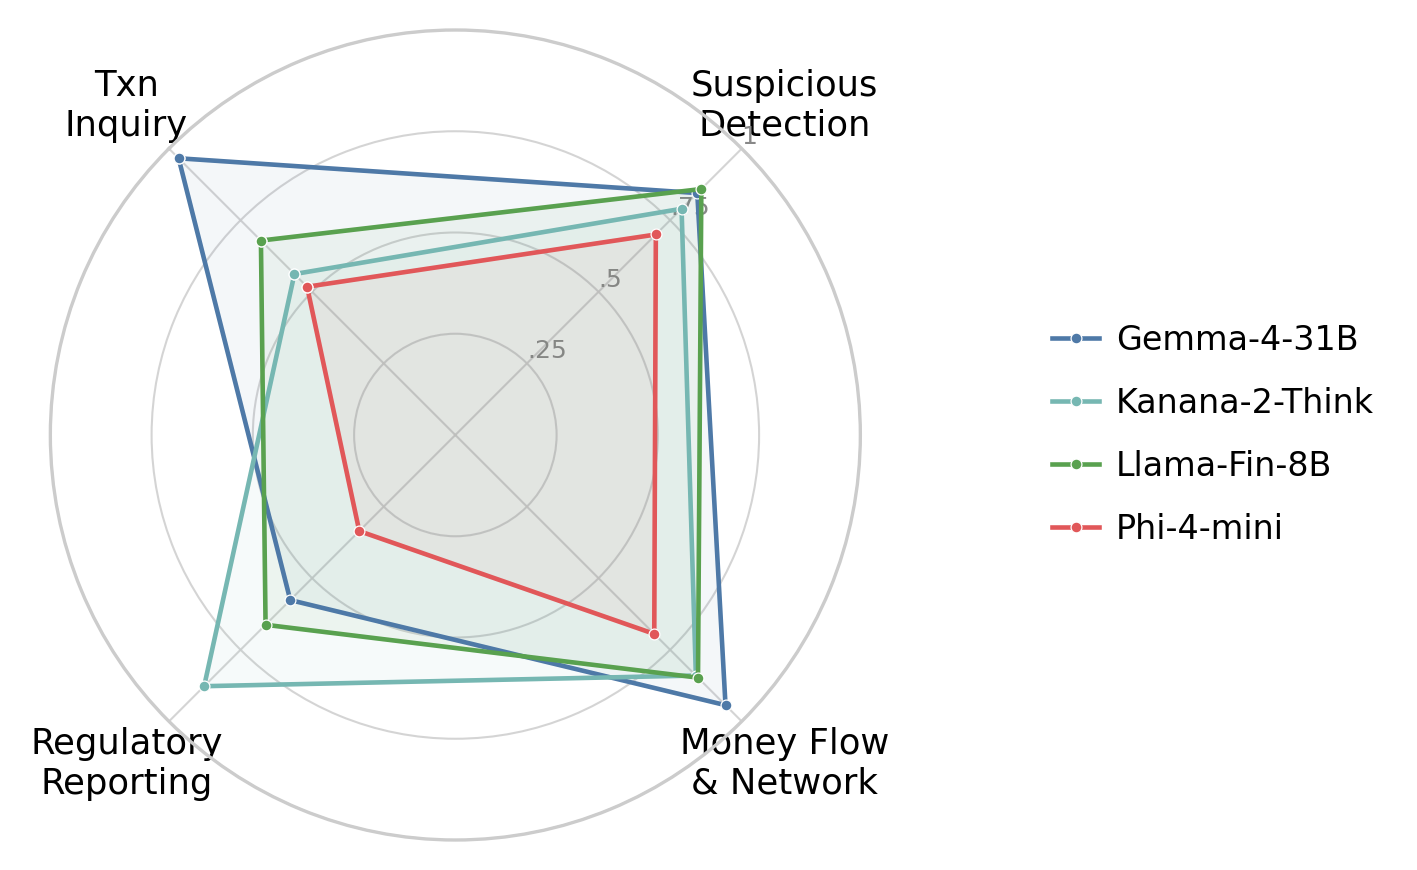
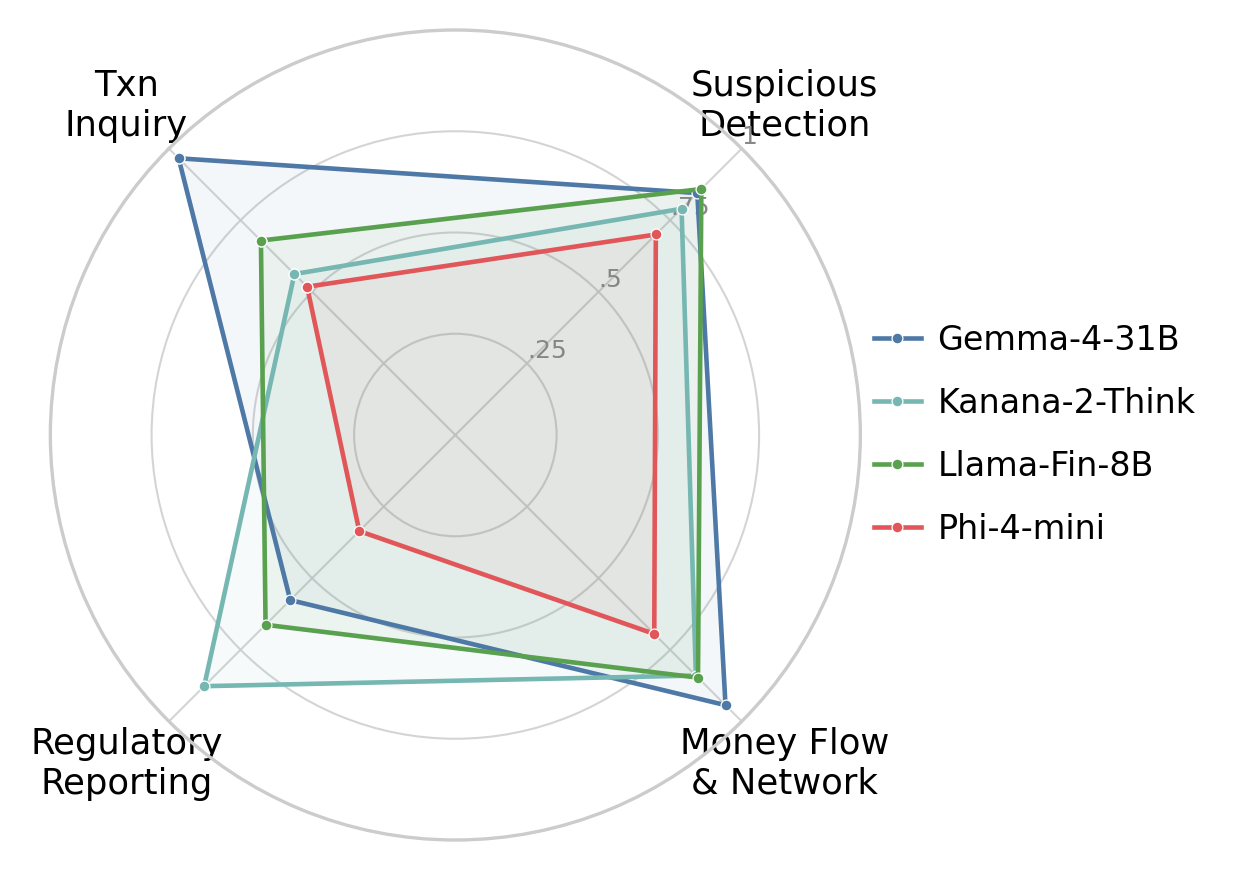
fig:teaser (subdomain radar): pull legend closer to plot (bbox 1.20->0.98), remove large horizontal gap

diff --git a/_experiments/scripts/generate_subdomain_radar.py b/_experiments/scripts/generate_subdomain_radar.py
@@ -104,7 +104,7 @@ def main():
     ax.spines["polar"].set_linewidth(0.8)
     ax.grid(color="#d0d0d0", alpha=0.9, linewidth=0.5)
     ax.set_facecolor("white")
-    ax.legend(loc="center left", bbox_to_anchor=(1.20, 0.5), ncol=1,
+    ax.legend(loc="center left", bbox_to_anchor=(0.98, 0.5), ncol=1,
               fontsize=8, frameon=False, handletextpad=0.5,
               handlelength=1.4, labelspacing=0.9)
     plt.tight_layout()
